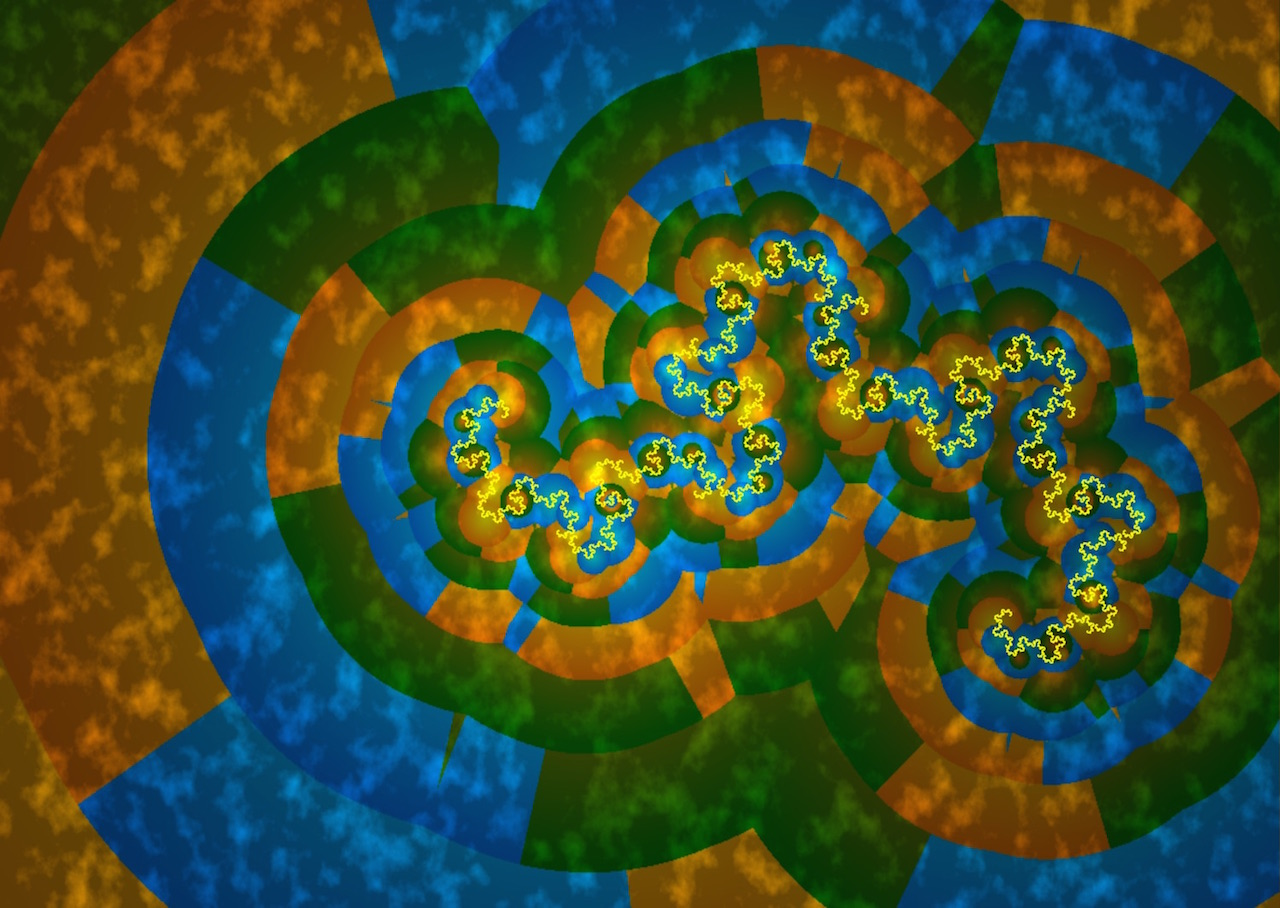
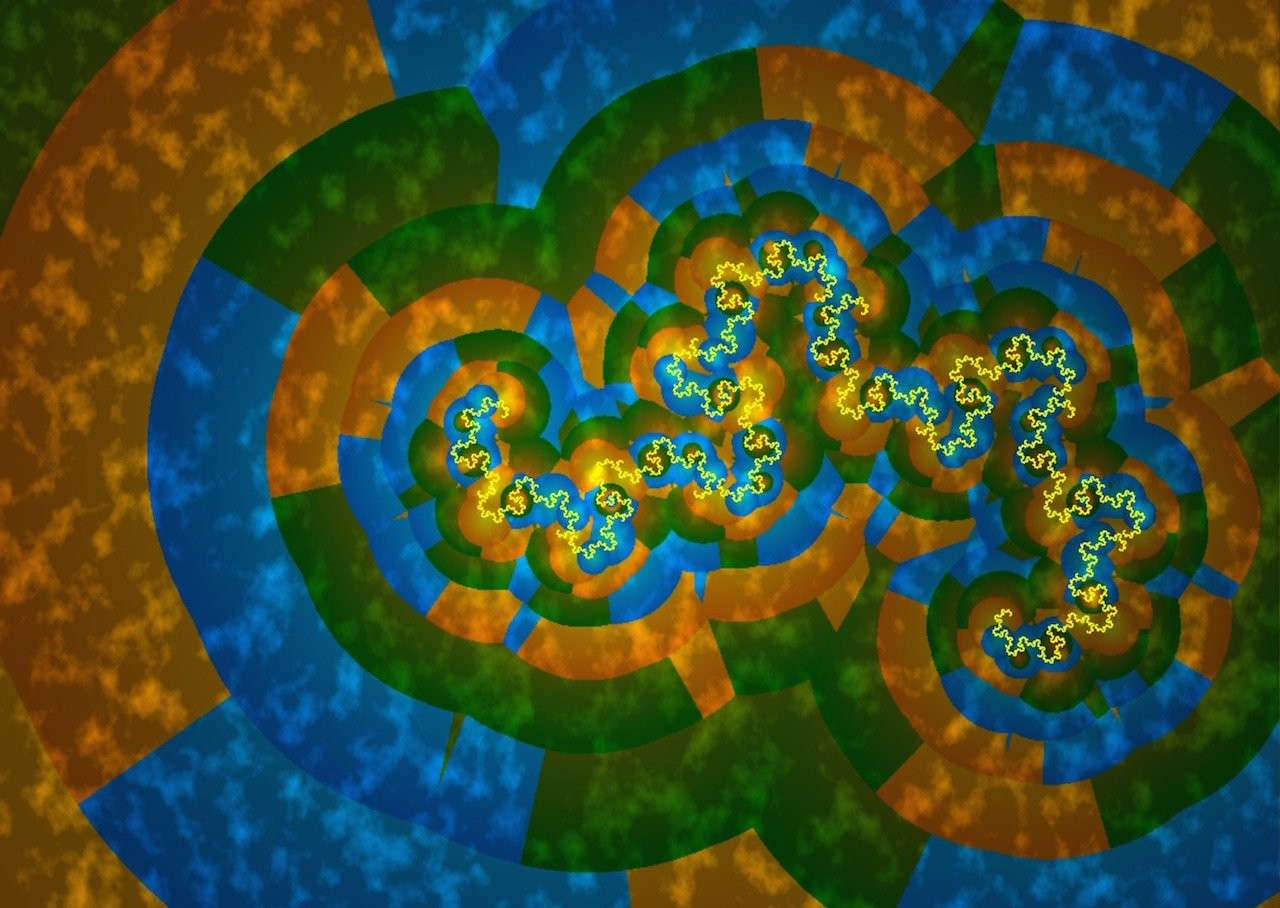
after meeting 13

diff --git a/research/academic.md b/research/academic.md
@@ -8,6 +8,7 @@ layout: research
 - [Academia.edu](https://uregina.academia.edu/DarylHepting){: target="blank" }
 - [AMiner](https://aminer.org/profile/53f45b6bdabfaedd74e4095c){: target="blank" }
 - [Collection of CS Bibliographies](http://liinwww.ira.uka.de/csbib?query=%2Bau:HeptingDH){: target="blank" }
+- [csauthors.net](https://www.csauthors.net/daryl-h-hepting/){: target="blank" }
 - [DBLP](http://dblp.uni-trier.de/pers/hd/h/Hepting:Daryl_H=.html){: target="blank" }
 - [Google Scholar](https://scholar.google.ca/citations?user=iXVS1CAAAAAJ&hl=en){: target="blank" }
 - [Impactstory](https://impactstory.org/u/0000-0002-3138-3521){: target="blank" }
